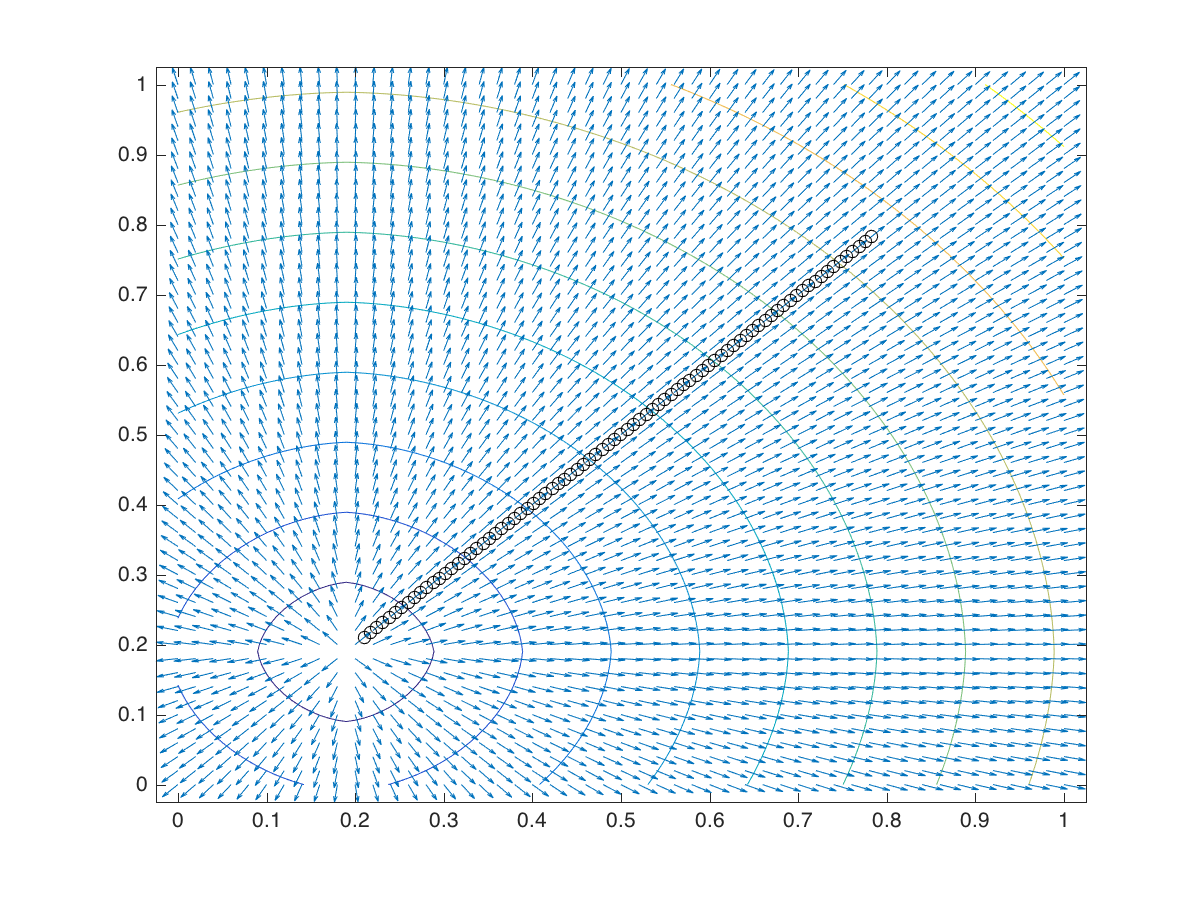
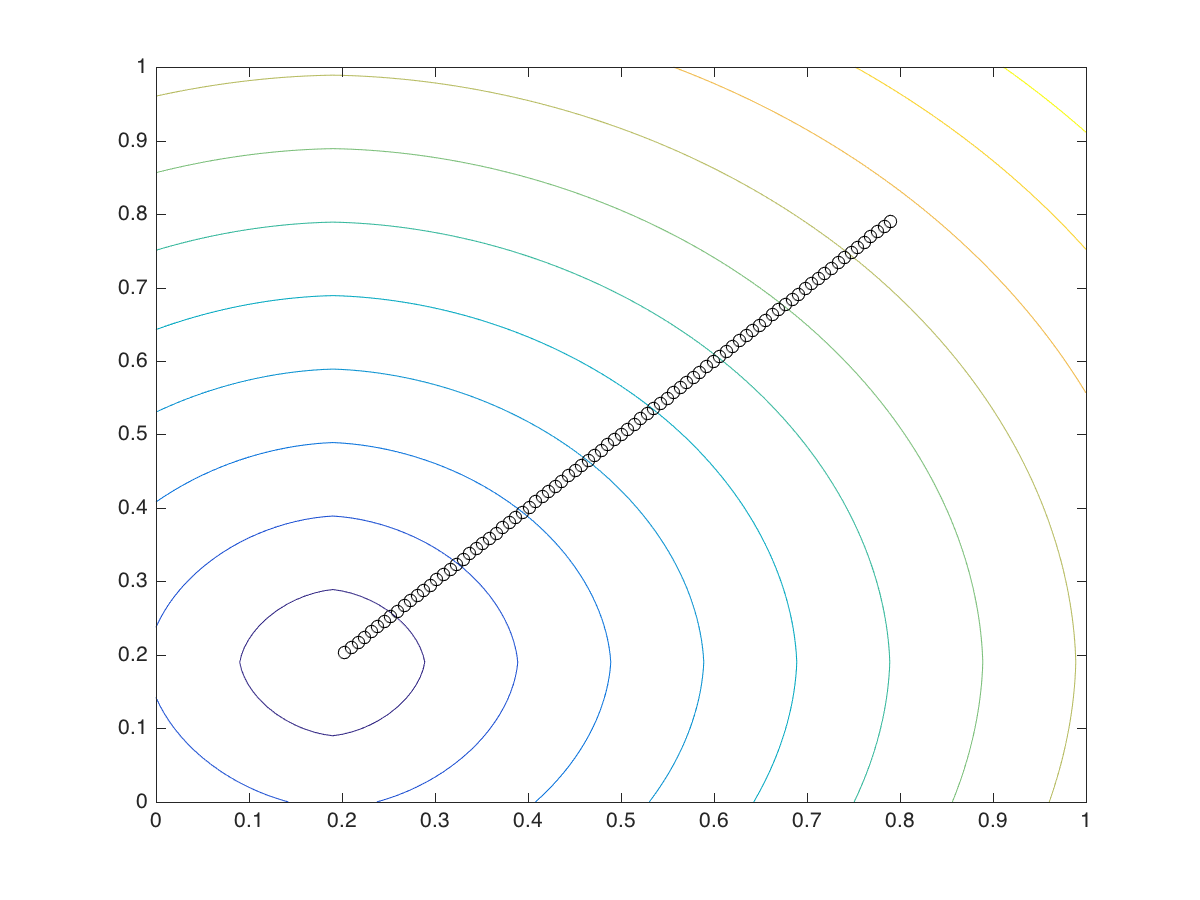
corrected figures.

Changed region(s): [[0.0925, 0.0622, 0.925, 0.9333], [0.1233, 0.9022, 0.1542, 0.9333], [0.0925, 0.8711, 0.1233, 0.9022]]

diff --git a/HW6/eikonal.m b/HW6/eikonal.m
@@ -4,14 +4,14 @@ X = 1;
 Y = 1;
 
 dx = 0.01;  dy = 0.01;      % mesh spacing = 1/100
-dt = 1e-4;                  % time step
+dt = 1e-3;                  % time step
 x  = 0:dx:X; y = 0:dy:Y;    % Cartesian grid
 [XX, YY] = meshgrid(x, y);
 numx = length(x); 
 numy = length(y); 
 
-opt   = 3;                  % flag to select which case to run
-plot  = 1;                  % flag to select real-time plot
+opt   = 1;                  % flag to select which case to run
+plot  = 0;                  % flag to select real-time plot
 initx = 0.2;                % x-coordinate of starting point
 inity = 0.2;                % y-coordinate of starting point
 norm = 1.0; ifig = 0;       % arbitrary initial values
@@ -37,10 +37,11 @@ switch opt
     case 3
         for i = 1:numx
             for j = 1:numy
-                F(i, j) = 1 - 0.9 * cos(4 .* pi .* x(i)) ...
-                    .* exp(-10 .* ((x(i) - 0.5) .^ 2 + (y(j) - 0.5).^2));
+                F(i, j) = 1 - 0.9 * cos(4 .* pi .* x(j)) ...
+                    .* exp(-10 .* ((x(j) - 0.5) .^ 2 + (y(i) - 0.5).^2));
             end
         end
+        %F = 1 - 0.9 * cos(4.*pi.*XX)*exp(-10.*((XX - 0.5).^2 + (YY - 0.5).^2));
         arrivx = 0.8;
         arrivy = 0.8;
     case 4
@@ -103,8 +104,8 @@ ny       = fy ./ sqrt(fx .^ 2 + fy .^ 2);
 
 hold on
 % only plot a subsection of the normals so it's easier to see
-quiver(XX(1:2:end, 1:2:end), YY(1:2:end, 1:2:end), ...
-    nx(1:2:end, 1:2:end), ny(1:2:end, 1:2:end))
+%quiver(XX(1:8:end, 1:8:end), YY(1:8:end, 1:8:end), ...
+%    nx(1:8:end, 1:8:end), ny(1:8:end, 1:8:end))
 
 dn   = 0.01; % time step for tracing out the shortest path
 xc   = [x(arrivx/dx)];
